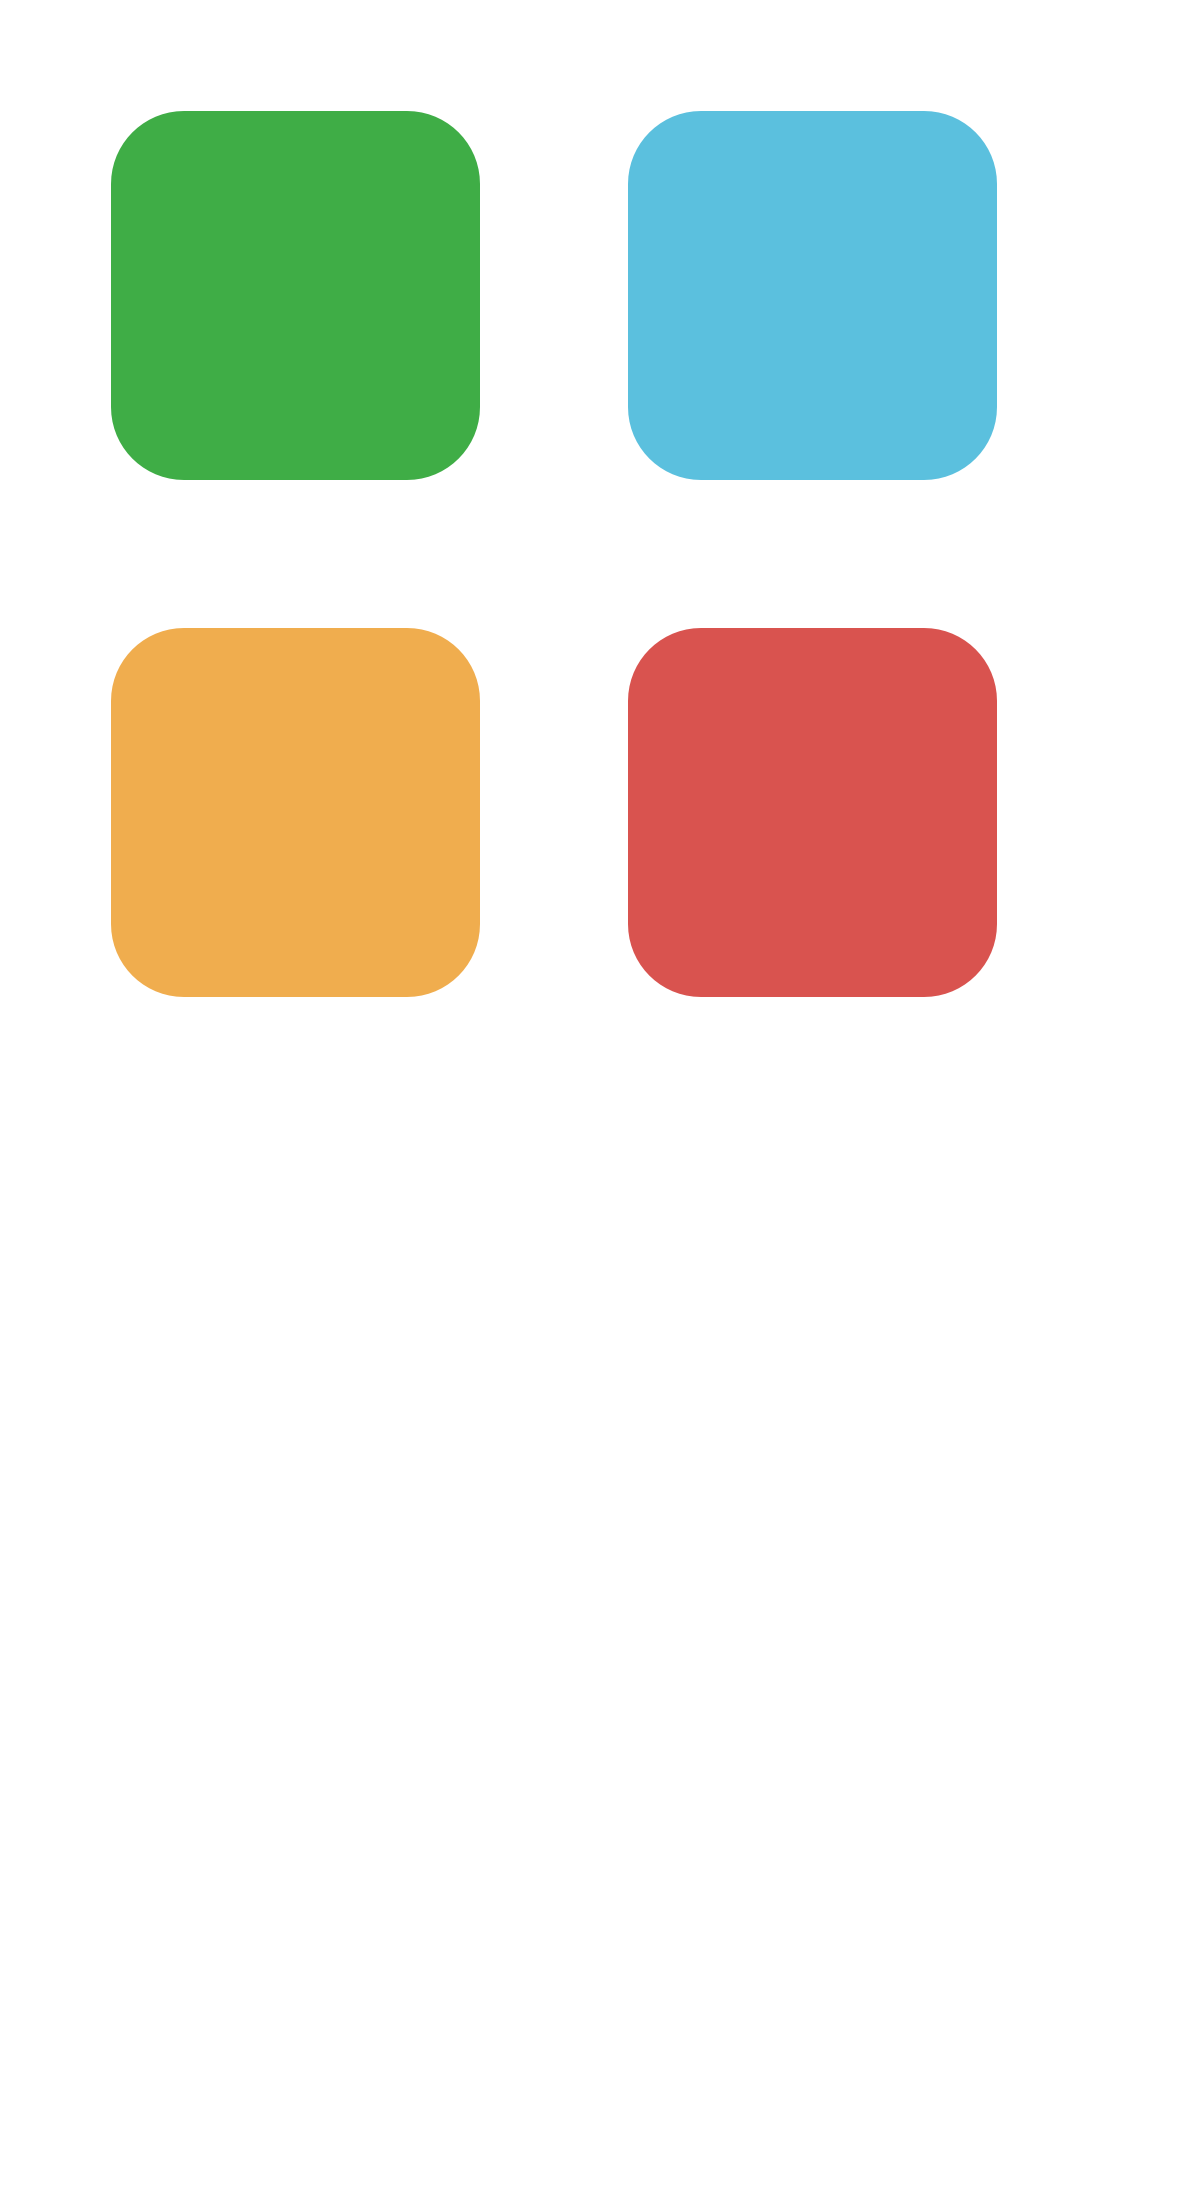
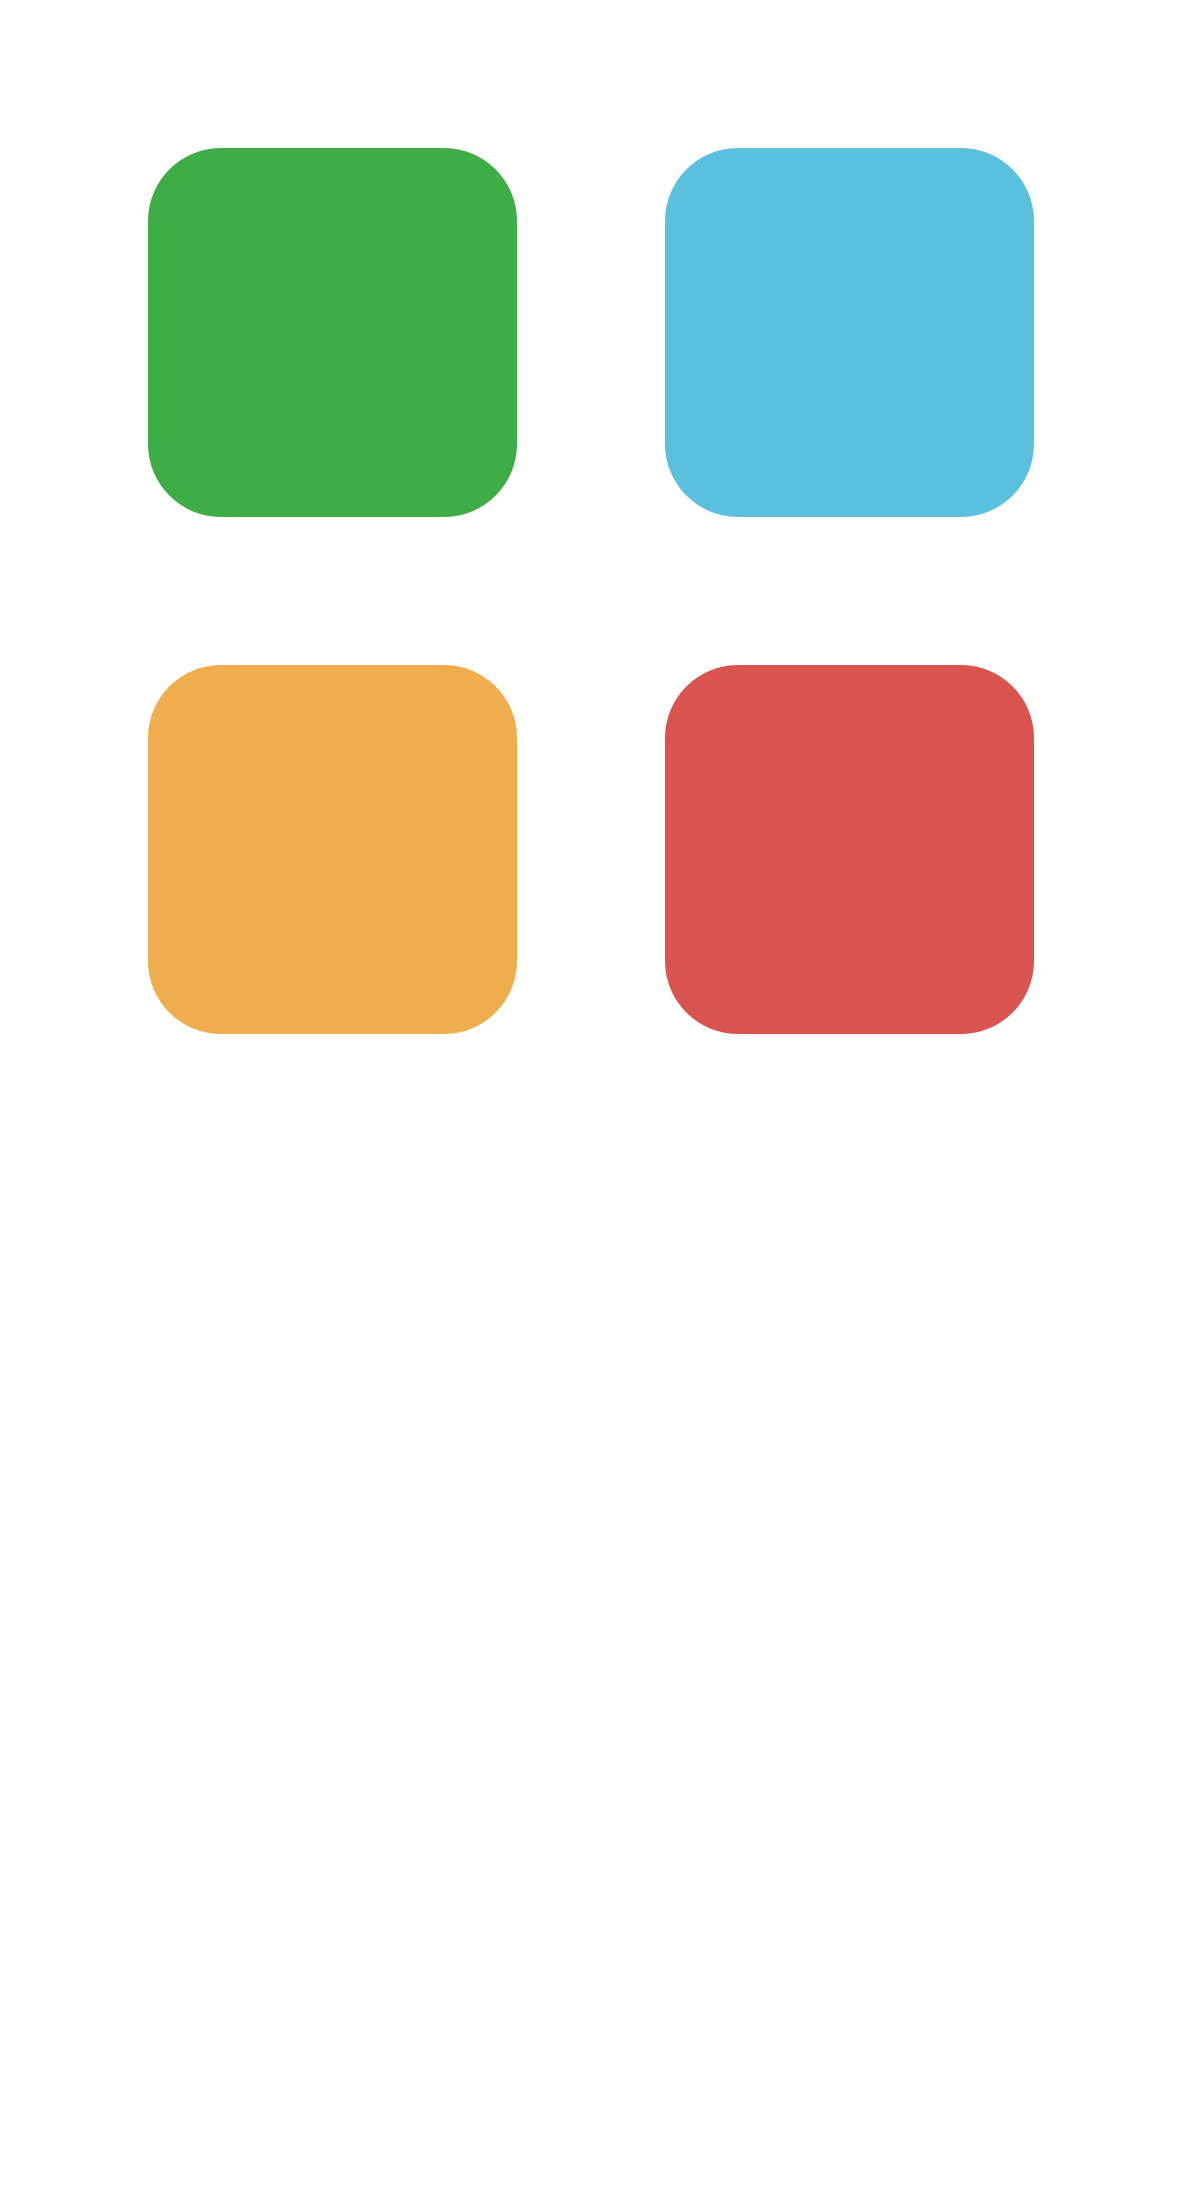
Fixes #147

diff --git a/Icons/rasterize.js b/Icons/rasterize.js
@@ -24,8 +24,8 @@ if (system.args.length > 3 && system.args[3].substr(-2) === "px") {
         pageHeight = parseInt(size[1], 10);
         page.viewportSize = { width: pageWidth, height: pageHeight };
         page.clipRect = {
-            top: page.zoomFactor,
-            left: page.zoomFactor,
+            top: 0,
+            left: 0,
             width: pageWidth,
             height: pageHeight
         };

diff --git a/MinaGlosor.Web/Infrastructure/UrlExtensions.cs b/MinaGlosor.Web/Infrastructure/UrlExtensions.cs
@@ -1,0 +1,16 @@
+using System;
+using System.Web.Mvc;
+
+namespace MinaGlosor.Web.Infrastructure
+{
+    public static class UrlExtensions
+    {
+        public static string ContentCacheBreak(this UrlHelper url, string contentPath)
+        {
+            if (contentPath == null) throw new ArgumentNullException("contentPath");
+            var path = url.Content(contentPath);
+            path += "?" + Application.GetAppVersion();
+            return path;
+        }
+    }
+}
